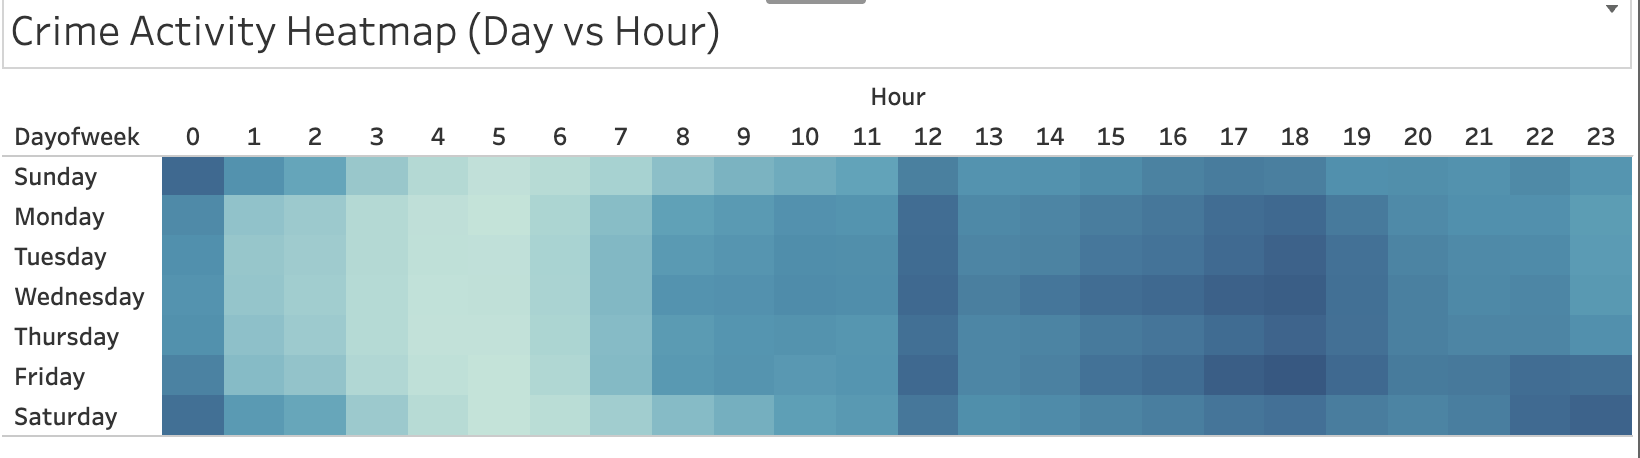
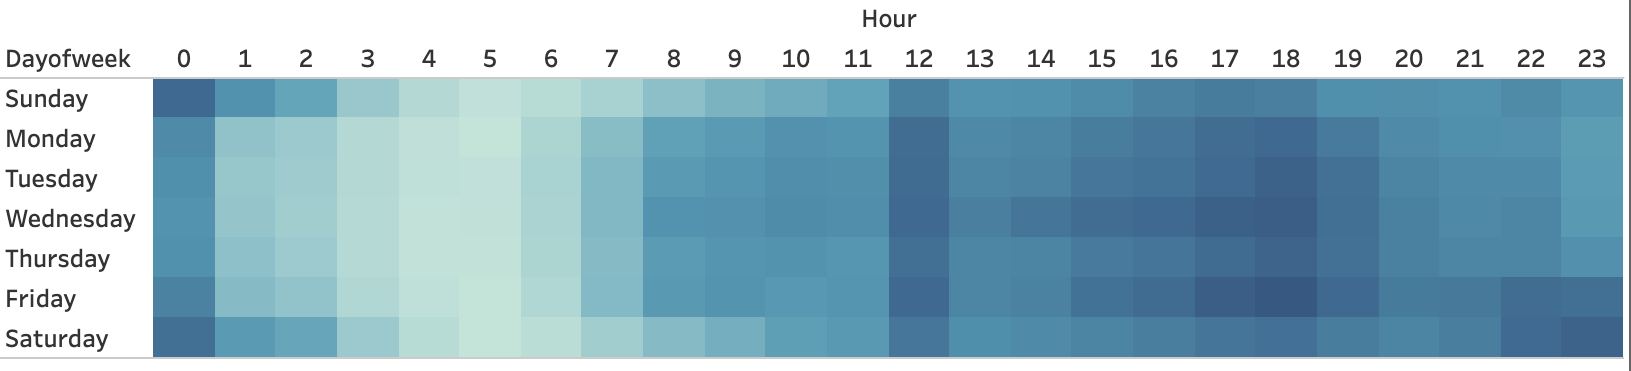
Data roject File Complete

diff --git a/app/components/work-section/DataProjects.tsx b/app/components/work-section/DataProjects.tsx
@@ -9,23 +9,39 @@ export default function DataProjects() {
   const { setSectionInView } = useView();
   const [openIndex, setOpenIndex] = useState<number | null>(null);
 
-  const dataProjects = [
-    {
-      title: "San Francisco Crime Data Analysis",
-      gitLink: "https://github.com/lilianaconstantino/sf-crime-analysis",
-      liveLink: "",
-      problem:
-        "Analyze crime trends across San Francisco to identify high-risk areas and seasonal patterns.",
-      insight:
-        "Theft-related crimes peak during summer months, especially in downtown areas with high foot traffic.",
-      stack: ["Python", "Pandas", "SQL", "Tableau"],
-      charts: [
-        { src: "/heatchart.png", title: "Crime Activity Heatmap" },
-        { src: "/bydistrict.png", title: "Crime by Police District" },
-        { src: "/crime_over_time.png", title: "Crime Trends Over Time" },
-      ],
-    },
-  ];
+ const dataProjects = [
+  {
+    title: "San Francisco Crime Data Analysis",
+    gitLink: "https://github.com/lilianaconstantino/sf-crime-analysis",
+    liveLink: "",
+    overview:
+      "An exploratory data analysis project examining crime trends across San Francisco using public datasets.",
+    problem:
+      "Identify high-risk areas and understand how crime patterns change over time.",
+    approach:
+      "Cleaned and analyzed crime data using Python and SQL, then visualized trends and geographic patterns in Tableau.",
+    insights: [
+      "Crime rates increased by 18% in certain districts over a 2-year period",
+      "Theft-related incidents made up the majority of reported cases",
+      "Crime activity peaked during summer months in high foot-traffic areas",
+    ],
+    stack: ["Python", "Pandas", "SQL", "Tableau"],
+    charts: [
+      { src: "/heatchart.png", 
+        title: "Crime Activity Heatmap",
+        description: "This heatmap highlights areas with the highest concentration of reported crimes, with downtown regions showing the most activity.",
+      },
+      { src: "/crimebypolice.png", 
+        title: "Crime by Police District",
+        description: "Certain districts consistently report higher crime rates, suggesting geographic concentration of incidents.",
+      },
+      { src: "/topcrimecategories.png", 
+        title: "Crime Trends Over Time",
+        description: "Theft-related crimes dominate across all time periods, with noticeable spikes during summer months.",
+      },
+    ],
+  },
+];
 
   const toggle = (index: number) => {
     setOpenIndex(openIndex === index ? null : index);
@@ -68,12 +84,11 @@ export default function DataProjects() {
                   <h3 className="text-xl md:text-2xl font-bold">
                     {project.title}
                   </h3>
-                  <p className="text-sm text-white/70">
-                    {project.stack.join(" • ")}
+                  <p className="md:text-lg text-white/70">
+                    {project.overview}
                   </p>
-                  <p className="text-sm md:text-base text-white/70 mt-2 max-w-xl">
-                    An exploratory data analysis project examining crime trends
-                    across police districts using SQL, Python, and Tableau.
+                  <p className="md:text-lg text-white/70">
+                    {project.stack.join(" • ")}
                   </p>
                 </div>
 
@@ -84,74 +99,87 @@ export default function DataProjects() {
               </div>
 
               {/* 🔥 Expanded Section */}
-              {isOpen && (
-                <div className="mt-5 flex flex-col gap-4 animate-fadeIn">
-                  {/* Text Sections */}
-                  <div className="text-white/90 space-y-3">
-                    <p>
-                      <span className="font-bold text-[#C1E899]">
-                        Project Overview:
-                      </span>{" "}
-                      {project.problem}
-                    </p>
+           {isOpen && (
+  <div className="mt-6 flex flex-col gap-6 animate-fadeIn">
 
-                    <p>
-                      <span className="font-bold text-[#C1E899]">
-                        Tools & Technologies:
-                      </span>{" "}
-                      {project.stack.join(", ")}
-                    </p>
+    {/* 🎯 Problem */}
+    <div>
+      <h4 className="font-semibold md:text-lg text-[#C1E899]">Problem</h4>
+      <p className="text-base md:text-lg text-white/90">{project.problem}</p>
+    </div>
 
-                    <p>
-                      <span className="font-bold text-[#C1E899]">
-                        Key Insight:
-                      </span>{" "}
-                      {project.insight}
-                    </p>
-                  </div>
+    {/* ⚙ Approach */}
+    <div>
+      <h4 className="font-semibold md:text-lg text-[#C1E899]">Approach</h4>
+      <p className="text-base md:text-lg text-white/90">{project.approach}</p>
+    </div>
 
-                  {/* 📊 Charts Section */}
-                  <div className="mt-5 grid md:grid-cols-2 gap-4">
-                    {project.charts.map((chart, i) => (
-                      <div key={i}>
-                        <p className="text-sm text-white/70 mb-1">
-                          {chart.title}
-                        </p>
-                        <Image
-                          src={chart.src}
-                          alt={chart.title}
-                          width={1200}
-                          height={675}
-                          className="rounded-xl w-full h-auto object-cover"
-                        />
-                      </div>
-                    ))}
-                  </div>
+    {/* 💡 Key Insights */}
+    <div>
+      <h4 className="font-semibold md:text-lg text-[#C1E899]">Key Insights</h4>
+      <ul className="list-disc ml-5 text-base md:text-lg text-white/90 mt-2 space-y-1">
+        {project.insights.map((item, i) => (
+          <li key={i}>{item}</li>
+        ))}
+      </ul>
+    </div>
 
-                  {/* 🔗 Links */}
-                  <div className="flex gap-3 mt-4">
-                    {project.gitLink && (
-                      <a
-                        href={project.gitLink}
-                        target="_blank"
-                        className="px-4 py-2 border border-[#C1E899] rounded-lg hover:bg-[#C1E899] hover:text-black transition"
-                      >
-                        GitHub
-                      </a>
-                    )}
+    {/* 🛠 Tools */}
+    <div>
+      <h4 className="font-semibold md:text-lg text-[#C1E899]">Tools & Technologies</h4>
+      <p className="text-base md:text-lg text-white/90 mt-1">{project.stack.join(", ")}</p>
+    </div>
 
-                    {project.liveLink && (
-                      <a
-                        href={project.liveLink}
-                        target="_blank"
-                        className="px-4 py-2 border border-[#C1E899] rounded-lg hover:bg-[#C1E899] hover:text-black transition"
-                      >
-                        Live Dashboard
-                      </a>
-                    )}
-                  </div>
-                </div>
-              )}
+    {/* 📊 Charts */}
+    <div className="flex flex-col gap-10">
+    {project.charts.map((chart, i) => (
+      <div key={i} className="text-center">
+      
+      {/* Title */}
+      <p className="text-lg md:text-xl font-semibold text-white mb-3">
+        {chart.title}
+      </p>
+
+      {/* Image */}
+      <Image
+        src={chart.src}
+        alt={chart.title}
+        width={1200}
+        height={675}
+        className="w-[80%] max-w-2xl mx-auto h-auto object-contain"
+      />
+
+      {/* Description */}
+      <p className="mt-3 text-base md:text-lg text-white/80 max-w-2xl mx-auto">
+        {chart.description}
+      </p>
+
+    </div>
+  ))}
+</div>
+
+    {/* 🔗 Links */}
+    <div className="flex gap-3 mt-2">
+      <a
+        href={project.gitLink}
+        target="_blank"
+        className="px-4 py-2 border border-[#C1E899] rounded-lg hover:bg-[#C1E899] hover:text-black transition"
+      >
+        GitHub
+      </a>
+
+      {project.liveLink && (
+        <a
+          href={project.liveLink}
+          target="_blank"
+          className="px-4 py-2 border border-[#C1E899] rounded-lg hover:bg-[#C1E899] hover:text-black transition"
+        >
+          Live Dashboard
+        </a>
+      )}
+    </div>
+  </div>
+)}
             </div>
           );
         })}

diff --git a/app/components/work-section/Works.tsx b/app/components/work-section/Works.tsx
@@ -20,7 +20,6 @@ export default function Works() {
     {
       title: "Stripe Report",
       gitLink: "https://github.com/lilianaconstantino/Stripe_Report_UI.git",
-      liveLink: "https://nijasit.bellsuniversity.edu.ng/",
       about:
         "Built an interactive UI for a reporting dashboard with React.js to streamline and consolidate financial records through a downloadable CSV template.",
       stack: ["react.js", "javascript", "stripe.js", "node.js"],
